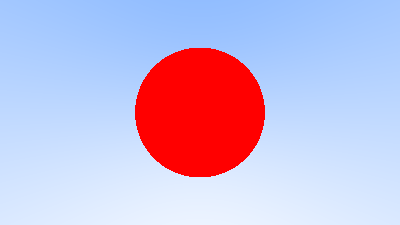
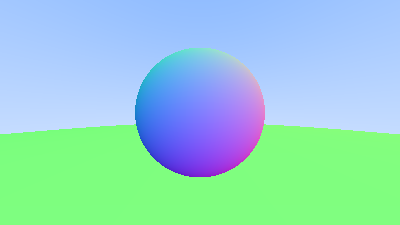
Get hittable working, taichi doen't support inheritance

diff --git a/main.py b/main.py
@@ -1,11 +1,15 @@
-from color import color, write_color
-from ray import ray
-from vec3 import point3, vec3
-
 import taichi as ti
 import taichi.math as tm
 
-ti.init(arch=ti.gpu)
+ti.init(arch=ti.gpu, default_fp=ti.f64)
+
+from color import color, write_color
+from hittable import HitRecord
+from world import World
+from ray import ray
+from sphere import Sphere
+from vec3 import point3, vec3
+
 
 # Image
 
@@ -16,6 +20,14 @@ image_width = 400
 image_height = image_width / aspect_ratio
 image_height = 1 if image_height < 1 else image_height
 image_height = int(image_height)
+
+# World
+
+world = World()
+
+world.add(Sphere(point3([0, 0, -1]), 0.5))
+world.add(Sphere(point3([0, -100.5, -1]), 100))
+world.lock()
 
 # Camera
 
@@ -39,28 +51,21 @@ pixel00_loc = viewport_bottom_left + 0.5 * (pixel_delta_u + pixel_delta_v)
 image_shape = (image_width, image_height)
 image = ti.Vector.field(3, ti.f32, shape=image_shape)
 
-@ti.func
-def hit_sphere(center, radius, r: ray):
-    oc = r.origin - center
-    a = tm.dot(r.direction, r.direction)
-    b = 2 * tm.dot(oc, r.direction)
-    c = tm.dot(oc, oc) - radius * radius
-    discriminant = b * b - 4 * a * c
-    return discriminant >= 0
-
 WHITE = color([1, 1, 1])
 BLUE = color([0.5, 0.7, 1.0])
 
 @ti.func
-def ray_color(r: ray):
-    pixel_color = color([0, 0, 0])
-    if hit_sphere(point3([0, 0, -1]), 0.5, r):
-        pixel_color = color([1, 0, 0])
+def ray_color(r: ray, world: ti.template()):
+    result = color([0, 0, 0])
+
+    rec = world.hit(r, 0, tm.inf)
+    if rec.hit():
+        result = 0.5 * (rec.normal + color([1, 1, 1]))
     else:
         unit_direction = tm.normalize(r.direction)
         a = 0.5 * (unit_direction.y + 1)
-        pixel_color = (1 - a) * WHITE + a * BLUE
-    return pixel_color
+        result = (1 - a) * WHITE + a * BLUE
+    return result
 
 @ti.kernel
 def render():
@@ -69,8 +74,7 @@ def render():
         ray_direction = pixel_center - camera_center
         r = ray(camera_center, ray_direction)
         
-        
-        pixel_color = ray_color(r)
+        pixel_color = ray_color(r, world)
         write_color(image, i, j, pixel_color)
 
 def main():

diff --git a/world.py b/world.py
@@ -1,0 +1,53 @@
+from hittable import Hittable, HitRecord
+from sphere import Sphere, sphere_type
+
+import taichi as ti
+
+class World:
+    locked: bool
+
+    def __init__(self) -> None:
+        self.locked = False
+        self.hittable_list = []
+        self.spheres = []
+    
+    def add(self, hittable):
+        if self.locked:
+            raise Exception('Can\'t add to locked world')
+        if isinstance(hittable, Sphere):
+            self.hittable_list.append(Hittable(sphere_type, len(self.spheres)))
+            self.spheres.append(hittable)
+        else:
+            raise Exception('Hittable does not exist')
+
+    def lock(self):
+        # convert hittable list to ndarray
+        self.hittable_count = len(self.hittable_list)
+        hittable_list = Hittable.field(shape=len(self.hittable_list))
+        for i, item in enumerate(self.hittable_list):
+            hittable_list[i] = item
+        self.hittable_list = hittable_list
+
+        # convert spheres to ndarray
+        spheres = Sphere.field(shape=len(self.spheres))
+        for i, item in enumerate(self.spheres):
+            spheres[i] = item
+        self.spheres = spheres
+
+        self.locked = True
+
+    @ti.func
+    def hit(self, r, ray_tmin, ray_tmax):
+        rec = HitRecord()
+        closest_so_far = ray_tmax
+
+        for i in range(self.hittable_count):
+            temp_rec = HitRecord()
+            hittable = self.hittable_list[i]
+            if hittable.type == sphere_type:
+                temp_rec = self.spheres[hittable.index].hit(r, ray_tmin, closest_so_far)
+            if temp_rec.hit():
+                rec = temp_rec
+                closest_so_far = rec.t
+
+        return rec

diff --git a/sphere.py b/sphere.py
@@ -1,0 +1,38 @@
+from hittable import MISSED_RECORD, hittable_type
+from vec3 import point3
+
+import taichi as ti
+import taichi.math as tm
+
+sphere_type = hittable_type()
+
+@ti.dataclass
+class Sphere:
+    center: point3
+    radius: ti.f64
+    
+    @ti.func
+    def hit(self, r, ray_tmin, ray_tmax):
+        rec = MISSED_RECORD
+        oc = r.origin - self.center
+        a = tm.dot(r.direction, r.direction)
+        half_b = tm.dot(oc, r.direction)
+        c = tm.dot(oc, oc) - self.radius * self.radius
+
+        discriminant = half_b * half_b - a * c
+        if discriminant < 0:
+            rec.t = -1
+        else:
+            sqrtd = tm.sqrt(discriminant)
+
+            # Find the nearest root that lies in the acceptable range
+            rec.t = root = (-half_b - sqrtd) / a
+            if root <= ray_tmin or ray_tmax <= root:
+                rec.t = root = (-half_b + sqrtd) / a
+                if root <= ray_tmin or ray_tmax <= root:
+                    rec.t = -1
+        
+        if rec.hit():
+            rec.p = r.at(rec.t)
+            rec.normal = (rec.p - self.center) / self.radius
+        return rec

diff --git a/hittable.py b/hittable.py
@@ -1,0 +1,27 @@
+from vec3 import vec3, point3
+
+import taichi as ti
+
+next_type = 0
+def hittable_type():
+    global next_type
+    type = next_type
+    next_type += 1
+    return type
+
+@ti.dataclass
+class Hittable:
+    type: int
+    index: int
+
+@ti.dataclass
+class HitRecord:
+    p: point3
+    normal: vec3
+    t: ti.f64
+
+    @ti.func
+    def hit(self):
+        return self.t > 0
+
+MISSED_RECORD = HitRecord(t=-1)

diff --git a/ray.py b/ray.py
@@ -11,5 +11,6 @@ class ray:
         self.origin = origin
         self.direction = direction
     
+    @ti.func
     def at(self, t):
-        return self.orig + t * self.dir
+        return self.origin + t * self.direction
